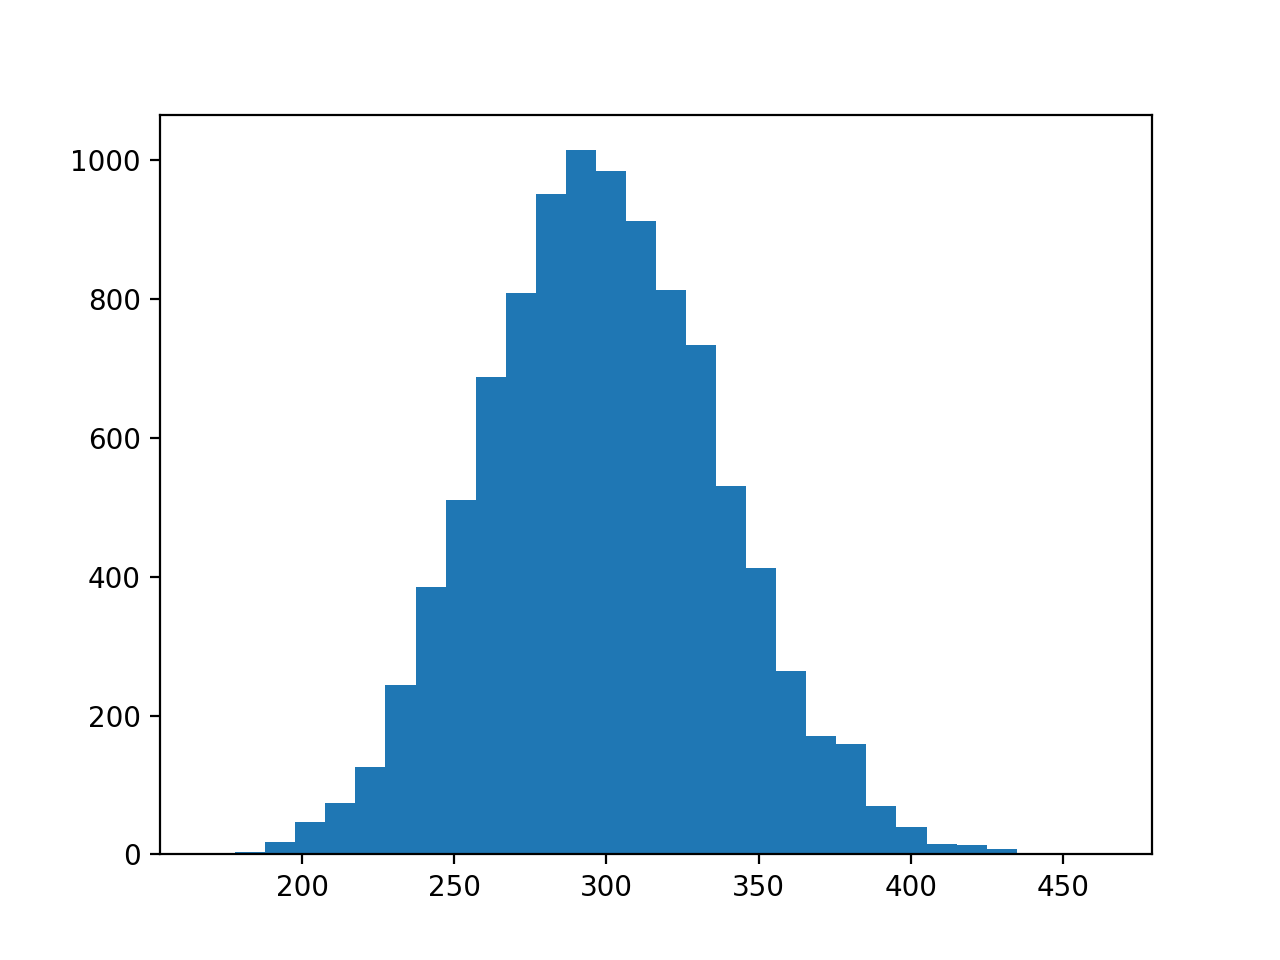
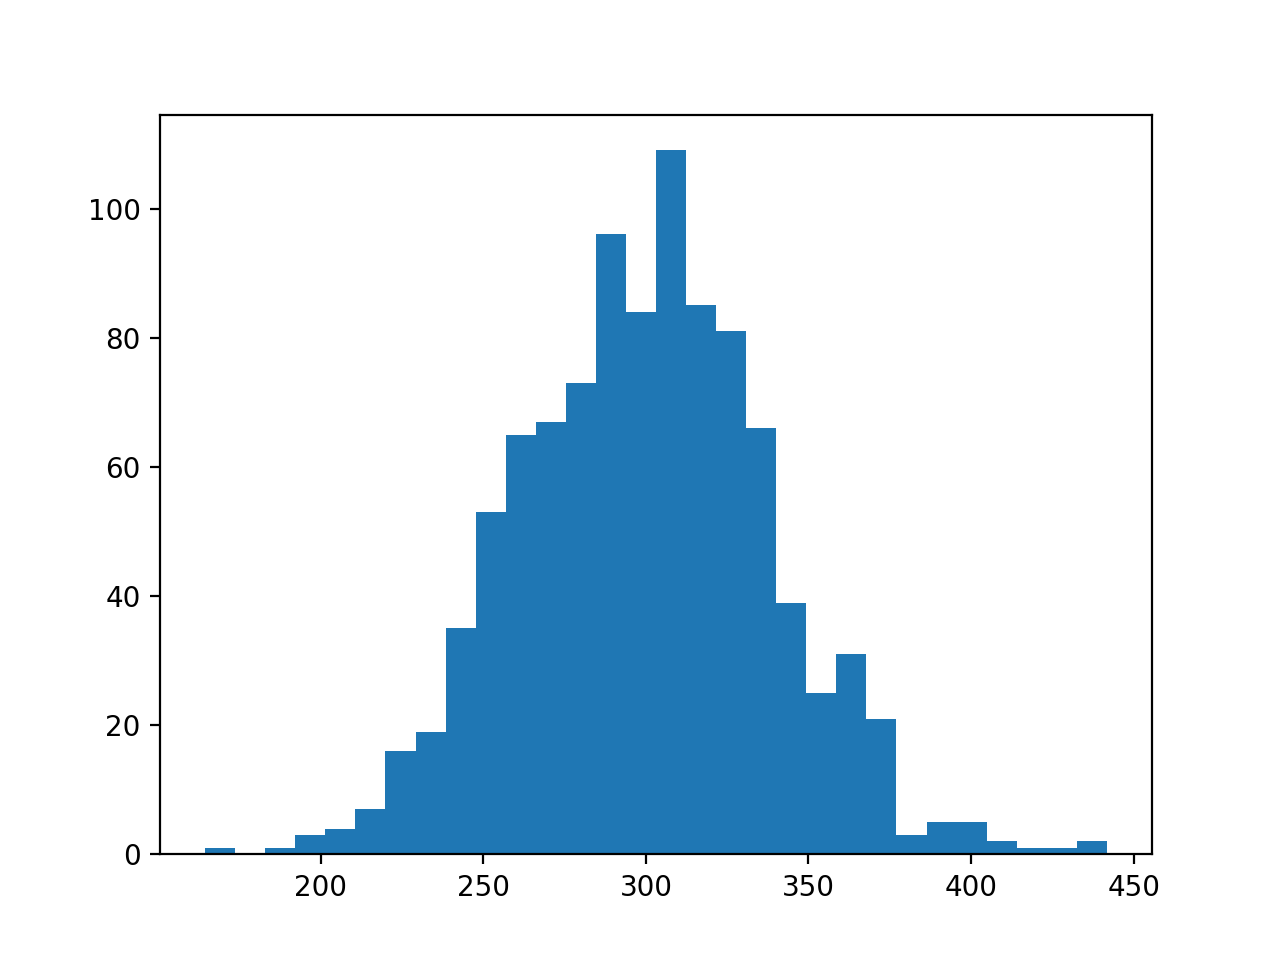
rebuild

diff --git a/searchindex.js b/searchindex.js
@@ -1,1 +1,1 @@
-Search.setIndex({docnames:["index","quickstart","refs/modules","refs/resample","tutorial/advanced","tutorial/basic","tutorial/index"],envversion:51,filenames:["index.rst","quickstart.rst","refs\\modules.rst","refs\\resample.rst","tutorial\\advanced.rst","tutorial\\basic.rst","tutorial\\index.rst"],objects:{"resample.boot":{boot:[3,1,1,""]},"resample.result":{Results:[3,2,1,""]},"resample.result.Results":{bias:[3,3,1,""],ci:[3,3,1,""],plot:[3,3,1,""],point_estimate:[3,3,1,""],se:[3,3,1,""]},"resample.statistic":{Max:[3,2,1,""],Mean:[3,2,1,""],Median:[3,2,1,""],Min:[3,2,1,""],Quantile:[3,2,1,""],SD:[3,2,1,""],Statistic:[3,2,1,""],Var:[3,2,1,""]},resample:{boot:[3,0,0,"-"],result:[3,0,0,"-"],statistic:[3,0,0,"-"]}},objnames:{"0":["py","module","Python module"],"1":["py","function","Python function"],"2":["py","class","Python class"],"3":["py","method","Python method"]},objtypes:{"0":"py:module","1":"py:function","2":"py:class","3":"py:method"},terms:{"2x2":4,"boolean":3,"case":4,"class":3,"default":[3,5],"float":3,"function":[3,4,5],"import":[1,4,5],"int":3,"long":[],"return":[3,4,5],"static":[],"true":[3,5],"var":[3,5],For:4,One:5,The:[4,5],These:4,Using:4,With:5,about:5,abov:5,accuraci:[],actual:[4,5],adding:4,advanc:[0,6],advantag:5,after:[1,4],alg:[4,5],algebra:4,algorithm:[1,5],all:[4,5],allow:[4,5],almost:4,alongsid:1,also:[4,5],amount:[4,5],ana:5,anaconda:1,analyz:4,ani:[1,5],anoth:[4,5],anti:5,anywai:4,appli:[3,5],appropri:5,argument:[4,5],arrai:[3,5],atom:4,avail:5,avavil:5,averag:4,base:3,basic:[0,6],bca:[3,5],becaus:5,becom:5,befor:4,being:4,below:[4,5],better:5,between:[3,4],beween:4,beyond:[],bia:[3,5],bibbi:[],biddi:5,bin:3,bipass:[],book:5,boostrap:5,boot:[2,4,6],boot_group:4,boot_reg:4,bootstap:[],bootstrap:[0,1,3,4,5],bradlei:1,build:4,bypass:4,calcul:[3,4,5],can:[4,5],car_weight:[],caus:4,cenonn:1,center:[3,5],certain:4,chang:4,check:6,choic:5,clone:1,close:1,code:[4,5],coef_:4,coeffici:4,col:[3,4],column:[3,4],com:1,command:1,common:[4,5],commonli:[],compar:4,complet:[1,4],complic:4,con:[],confid:[3,4,5],conjunct:[],contain:[3,4,5],content:[0,6],corr:[],correct:[3,5],correl:4,counterpart:[],cov:4,covari:4,creat:[3,4],csv:[],data:[3,5,6],datafram:[3,4,5],dataset:[1,4,5],decid:5,def:4,defin:[3,5],denot:4,dep_var:[],depend:4,design:1,develop:1,devic:5,diff_mean:4,differ:[4,5],dimens:5,directli:5,directori:1,distribut:[1,3,4,5],doe:[],download:[1,5],draw:1,each:4,efron:[1,3,5],either:[3,4,5],encompass:5,enter:1,environ:1,error:[1,3,5],estim:[0,1,3,4,5],etc:4,everi:3,examin:5,exampl:[4,5],exist:[1,5],extrem:1,fals:3,featur:4,few:5,find:[],first:5,fit:4,five:5,follow:1,form:1,formula:1,found:[],framework:0,from:[1,3,4,5],func:3,fundament:5,get:[0,4,5],get_coef:4,git:0,github:1,give:4,group1:4,group2:4,group:3,group_col:[3,4],handl:4,has:[1,4],have:[4,5],head:[],header:[],here:5,hire:[4,5],his:[],histogram:[3,5],hold:[4,5],hormon:[4,5],how:4,hrs:5,http:1,implement:[1,5],imvolv:[],includ:4,indep_var:[],independ:4,indepth:[],index:3,inflammatori:5,inform:[4,5],inplac:4,input:[3,4],insert:[],instal:0,intend:[],interv:[3,4,5],introduct:5,involv:[],is_valid:3,kent:5,kind:[3,4,5],known:1,kwarg:3,level:3,like:4,line:1,linear_model:4,linearregress:4,link:[],list:[3,4],locat:3,look:[4,5],lot:5,mai:4,make:5,mani:[4,5],mardia:5,match:[],matric:4,matrix:[],max:[3,4],maximum:4,mean:[3,4,5],measur:3,mec:[4,5],mechan:5,median:[3,4,5],melt:4,method:1,min:3,minimum:4,model:4,modul:[0,2],more:4,most:[1,5],multi:[],multi_boostrap:[],multi_bootstrap:4,multipl:4,multivari:6,multivariateresult:3,name:4,need:[4,5],none:3,nonparametr:5,note:5,now:4,number:3,numer:[4,5],numpi:5,object:[3,6],observ:[3,4],often:5,one:[1,4,5],onli:[4,5],order:5,origin:[1,3],other:4,otherhand:4,otherwis:5,our:[],output:3,output_col:[3,4],own:[],packag:[1,5],panda:5,paramet:3,particular:4,pass:[4,5],pdf:[4,5],percentil:[3,5],perform:[0,1,4,5],piec:5,place:1,plot:[3,4,5],png:[4,5],point:[3,4,5],point_estim:[3,4,5],power:[],previou:4,primari:5,problem:4,proce:4,process:[],properi:[],properti:5,provid:[1,4],purpos:[],pyhon:[],python:[0,1,4],quantil:3,rais:4,rather:4,read_csv:[],reampl:[],reason:5,ref:[],refer:1,regress:4,remain:4,repeat:1,replic:3,repositori:1,requir:[3,4],resampl:[4,5],resmapl:[],result:[2,4,6],row:[3,4,5],rst:[],same:4,sampl:[1,3,5],scale:3,scale_percentil:5,scenario:5,score:[4,5],second:5,see:[],sens:5,seper:1,seri:[3,5],setup:1,should:4,shown:[],simpl:[1,5],simplest:4,simpli:1,simplifi:[],simul:[1,3,5],singl:4,situat:4,sklearn:4,smodul:[],solv:4,some:[],someon:4,sourc:[4,5],specif:4,specifi:[4,5],sta:[4,5],standard:[1,3,5],start:0,statist:[1,2,5,6],string:3,structur:4,student:5,subject:5,subtract:4,suffici:[],techniqu:1,test:[4,5],than:[4,5],thei:4,thi:[1,4,5],thing:[4,5],through:[],throughout:5,thu:4,time:4,todo:[],took:5,trivial:5,tupl:3,tutori:0,two:[4,5],type:[3,4],typic:[],uncertainti:1,univari:[4,5],univariateresult:3,unix:1,use:[1,3,4,5],used:[1,5],useful:1,user:[3,4,5],uses:4,using:[1,5,6],usual:5,util:[],valid:[3,6],valu:[4,5],value_var:4,var_nam:4,variabl:3,varianc:[3,5],variou:5,vec:[4,5],version:5,wai:1,want:[4,5],warn:4,well:1,what:[0,5],when:[1,4],where:5,whether:[3,4],which:4,who:5,would:[4,5]},titles:["Welcome to resample&#8217;s documentation!","Getting Started - What is resample","resample","resample modules","Advanced Tutorial","Basic Tutorial","Tutorials"],titleterms:{advanc:4,basic:5,boot:[3,5],bootstrap:[],check:4,data:4,defin:[],document:0,estim:[],get:1,git:1,group:4,instal:1,matrix:4,modul:3,multivari:4,object:[4,5],output:4,reampl:[],resampl:[0,1,2,3],result:[3,5],start:1,statist:[3,4],think:[],titl:[],tutori:[4,5,6],univariateresult:[],user:[],using:4,valid:4,variabl:4,welcom:0,what:1}})
+Search.setIndex({docnames:["index","quickstart","refs/modules","refs/resample","tutorial/advanced","tutorial/basic","tutorial/index"],envversion:51,filenames:["index.rst","quickstart.rst","refs\\modules.rst","refs\\resample.rst","tutorial\\advanced.rst","tutorial\\basic.rst","tutorial\\index.rst"],objects:{"resample.boot":{boot:[3,1,1,""]},"resample.result":{Results:[3,2,1,""]},"resample.result.Results":{bias:[3,3,1,""],ci:[3,3,1,""],plot:[3,3,1,""],point_estimate:[3,3,1,""],se:[3,3,1,""]},"resample.statistic":{Max:[3,2,1,""],Mean:[3,2,1,""],Median:[3,2,1,""],Min:[3,2,1,""],Quantile:[3,2,1,""],SD:[3,2,1,""],Statistic:[3,2,1,""],Var:[3,2,1,""]},resample:{boot:[3,0,0,"-"],result:[3,0,0,"-"],statistic:[3,0,0,"-"]}},objnames:{"0":["py","module","Python module"],"1":["py","function","Python function"],"2":["py","class","Python class"],"3":["py","method","Python method"]},objtypes:{"0":"py:module","1":"py:function","2":"py:class","3":"py:method"},terms:{"2x2":4,"boolean":3,"case":4,"class":3,"default":[3,5],"float":3,"function":[3,4,5],"import":[1,4,5],"int":3,"long":[],"return":[3,4,5],"static":[],"true":[3,5],"var":[3,5],For:4,One:5,The:[4,5],These:4,Using:4,With:5,about:5,abov:5,acceler:3,accuraci:[],actual:[4,5],adding:4,advanc:[0,6],advantag:5,after:[1,4],alg:[4,5],algebra:4,algorithm:[1,5],all:[4,5],allow:[4,5],almost:4,alongsid:1,alpha:[],alpha_1:[],alpha_2:[],also:[4,5],amount:[4,5],ana:5,anaconda:1,analyz:4,ani:[1,5],anoth:[4,5],anti:5,anywai:4,appli:[3,5],appropri:5,argument:[4,5],arrai:[3,5],atom:4,avail:5,avavil:5,averag:4,base:3,basic:[0,6],bca:[3,5],becaus:5,becom:5,befor:4,being:4,below:[4,5],better:5,between:[3,4],beween:4,beyond:[],bia:[3,5],bibbi:[],biddi:5,bin:3,bipass:[],book:5,boostrap:5,boot:[2,4,6],boot_group:4,boot_reg:4,bootstap:[],bootstrap:[0,1,3,4,5],bradlei:1,build:4,bypass:4,calcul:[3,4,5],can:[4,5],car_weight:[],caus:4,cenonn:1,center:[3,5],certain:4,chang:4,check:6,choic:5,clone:1,close:1,code:[4,5],coef_:4,coeffici:4,col:[3,4],column:[3,4],com:1,command:1,common:[4,5],commonli:[],compar:4,complet:[1,4],complic:4,con:[],confid:[3,4,5],conjunct:[],contain:[3,4,5],content:[0,6],corr:[],correct:[3,5],correl:4,counterpart:[],cov:4,covari:4,creat:[3,4],csv:[],data:[3,5,6],datafram:[3,4,5],dataset:[1,4,5],decid:5,def:4,defin:[3,5],denot:4,dep_var:[],depend:4,design:1,develop:1,devic:5,diff_mean:4,differ:[4,5],dimens:5,directli:5,directori:1,distribut:[1,3,4,5],doe:[],download:[1,5],draw:1,each:4,efron:[1,3,5],either:[3,4,5],encompass:5,enter:1,environ:1,error:[1,3,5],estim:[0,1,3,4,5],etc:4,everi:3,examin:5,exampl:[4,5],exist:[1,5],extrem:1,fals:3,featur:4,few:5,figsiz:3,figur:3,find:[],first:5,fit:4,five:5,follow:1,form:1,formula:1,found:[],framework:0,from:[1,3,4,5],func:3,fundament:5,get:[0,4,5],get_coef:4,git:0,github:1,give:4,group1:4,group2:4,group:3,group_col:[3,4],handl:4,has:[1,4],hat:[],have:[4,5],head:[],header:[],here:5,heta_95:[],heta_:[],hire:[4,5],his:[],histogram:[3,5],hold:[4,5],hormon:[4,5],how:4,hrs:5,http:1,implement:[1,5],imvolv:[],inch:3,includ:4,indep_var:[],independ:4,indepth:[],index:3,inflammatori:5,inform:[4,5],inplac:4,input:[3,4],insert:[],instal:0,intend:[],interv:[3,4,5],introduct:5,involv:[],is_valid:3,kent:5,kind:[3,4,5],known:1,kwarg:3,level:3,like:4,line:1,linear_model:4,linearregress:4,link:[],list:[3,4],loc_percentil:3,locat:3,look:[4,5],lot:5,lpha:[],mai:4,make:5,mani:[4,5],mardia:5,match:[],math:[],matric:4,matrix:[],max:[3,4],maximum:4,mean:[3,4,5],measur:3,mec:[4,5],mechan:5,median:[3,4,5],melt:4,method:1,min:3,minimum:4,model:4,modul:[0,2],more:4,most:[1,5],multi:[],multi_boostrap:[],multi_bootstrap:4,multipl:4,multivari:6,multivariateresult:3,name:4,need:[4,5],none:3,nonparametr:5,note:5,now:4,number:3,numer:[4,5],numpi:5,object:[3,6],observ:[3,4],often:5,one:[1,4,5],onli:[4,5],order:5,origin:[1,3],other:4,otherhand:4,otherwis:5,our:[],output:3,output_col:[3,4],own:[],packag:[1,5],panda:5,param:[],paramet:3,particular:4,pass:[4,5],pdf:[4,5],percentil:[3,5],perform:[0,1,4,5],piec:5,place:1,plot:[3,4,5],png:[4,5],point:[3,4,5],point_estim:[3,4,5],power:[],previou:4,primari:5,problem:4,proce:4,process:[],properi:[],properti:5,provid:[1,4],purpos:[],pyhon:[],python:[0,1,4],quantil:3,rais:4,rather:4,read_csv:[],reampl:[],reason:5,ref:[],refer:1,regress:4,remain:4,repeat:1,replic:3,repositori:1,requir:[3,4],resampl:[4,5],resmapl:[],result:[2,4,6],row:[3,4,5],rst:[],rtype:[],same:4,sampl:[1,3,5],scale:3,scale_percentil:[3,5],scenario:5,score:[4,5],second:5,see:[],sens:5,seper:1,seri:[3,5],setup:1,should:4,shown:[],simpl:[1,5],simplest:4,simpli:1,simplifi:[],simul:[1,3,5],singl:4,situat:4,size:3,sklearn:4,smodul:[],solv:4,some:[],someon:4,sourc:[4,5],specif:4,specifi:[4,5],sta:[4,5],standard:[1,3,5],start:0,statist:[1,2,5,6],string:3,structur:4,student:5,subject:5,subtract:4,suffici:[],techniqu:1,test:[4,5],than:[4,5],thei:4,theta:[],thi:[1,4,5],thing:[4,5],through:[],throughout:5,thu:4,time:4,todo:[],took:5,trivial:5,tupl:3,tutori:0,two:[4,5],type:[3,4],typic:[],uncertainti:1,univari:[4,5],univariateresult:3,unix:1,use:[1,3,4,5],used:[1,5],useful:1,user:[3,4,5],uses:4,using:[1,5,6],usual:5,util:[],valid:[3,6],valu:[4,5],value_var:4,var_nam:4,variabl:3,varianc:[3,5],variou:5,vec:[4,5],version:5,wai:1,want:[4,5],warn:4,well:1,what:[0,5],when:[1,4],where:[3,5],whether:[3,4],which:4,who:5,would:[4,5]},titles:["Welcome to resample&#8217;s documentation!","Getting Started - What is resample","resample","resample modules","Advanced Tutorial","Basic Tutorial","Tutorials"],titleterms:{advanc:4,basic:5,boot:[3,5],bootstrap:[],check:4,data:4,defin:[],document:0,estim:[],get:1,git:1,group:4,instal:1,matrix:4,modul:3,multivari:4,object:[4,5],output:4,reampl:[],resampl:[0,1,2,3],result:[3,5],start:1,statist:[3,4],think:[],titl:[],tutori:[4,5,6],univariateresult:[],user:[],using:4,valid:4,variabl:4,welcom:0,what:1}})

diff --git a/refs/resample.html b/refs/resample.html
@@ -57,7 +57,7 @@
 <span id="resample-boot"></span><h2>resample.boot<a class="headerlink" href="#module-resample.boot" title="Permalink to this headline">¶</a></h2>
 <dl class="function">
 <dt id="resample.boot.boot">
-<code class="descclassname">resample.boot.</code><code class="descname">boot</code><span class="sig-paren">(</span><em>data</em>, <em>statistic</em>, <em>group_cols=None</em>, <em>output_cols=None</em>, <em>r=10000</em>, <em>**kwargs</em><span class="sig-paren">)</span><a class="headerlink" href="#resample.boot.boot" title="Permalink to this definition">¶</a></dt>
+<code class="descclassname">resample.boot.</code><code class="descname">boot</code><span class="sig-paren">(</span><em>data</em>, <em>statistic</em>, <em>group_cols=None</em>, <em>output_cols=None</em>, <em>r=1000</em>, <em>**kwargs</em><span class="sig-paren">)</span><a class="headerlink" href="#resample.boot.boot" title="Permalink to this definition">¶</a></dt>
 <dd><p>Creates UnivariateResult or MultivariateResult objects.</p>
 <table class="docutils field-list" frame="void" rules="none">
 <col class="field-name" />
@@ -126,6 +126,17 @@
 <dt id="resample.result.Results.ci">
 <code class="descname">ci</code><span class="sig-paren">(</span><em>col=None</em>, <em>row=None</em>, <em>confidence=0.95</em>, <em>kind='efron'</em><span class="sig-paren">)</span><a class="headerlink" href="#resample.result.Results.ci" title="Permalink to this definition">¶</a></dt>
 <dd><p>Calculate an interval estimate of the statistic</p>
+<p>Efron &#8216;efron&#8217;: 
+<img src="../_images/mathmpl/math-8c9aaeeb8b.png" style="position: relative; bottom: -8px"/></p>
+<p>Location percentile &#8216;loc_percentile&#8217;:
+<img src="../_images/mathmpl/math-cf32d960db.png" style="position: relative; bottom: -8px"/></p>
+<p>Scale percentile &#8216;scale_percentile&#8217;:
+<img src="../_images/mathmpl/math-5a16590a65.png" style="position: relative; bottom: -10px"/></p>
+<p>Bias corrected and accelerated &#8216;BCa&#8217;:
+<img src="../_images/mathmpl/math-a8104a7755.png" style="position: relative; bottom: -8px"/>
+where</p>
+<p><img src="../_images/mathmpl/math-f217a48db8.png" style="position: relative; bottom: -17px"/></p>
+<p><img src="../_images/mathmpl/math-7b831bb230.png" style="position: relative; bottom: -17px"/></p>
 <table class="docutils field-list" frame="void" rules="none">
 <col class="field-name" />
 <col class="field-body" />
@@ -150,8 +161,8 @@
 
 <dl class="method">
 <dt id="resample.result.Results.plot">
-<code class="descname">plot</code><span class="sig-paren">(</span><em>col=None</em>, <em>row=None</em>, <em>bins=30</em>, <em>**kwargs</em><span class="sig-paren">)</span><a class="headerlink" href="#resample.result.Results.plot" title="Permalink to this definition">¶</a></dt>
-<dd><p>Create a histogram of the bootstrap distribution</p>
+<code class="descname">plot</code><span class="sig-paren">(</span><em>col=None</em>, <em>row=None</em>, <em>bins=30</em>, <em>figsize=(6</em>, <em>4)</em>, <em>**kwargs</em><span class="sig-paren">)</span><a class="headerlink" href="#resample.result.Results.plot" title="Permalink to this definition">¶</a></dt>
+<dd><p>Create histograms of the bootstrap distribution</p>
 <table class="docutils field-list" frame="void" rules="none">
 <col class="field-name" />
 <col class="field-body" />
@@ -160,6 +171,7 @@
 <li><strong>col</strong> (<em>int</em>) &#8211; y index of the variable to plot</li>
 <li><strong>row</strong> (<em>int</em>) &#8211; x index of the variable to plot (requires col)</li>
 <li><strong>bins</strong> (<em>int</em>) &#8211; number of bins for the histogram</li>
+<li><strong>figsize</strong> (<em>tuple</em>) &#8211; size of figure in inches</li>
 </ul>
 </td>
 </tr>

diff --git a/tutorial/basic.html b/tutorial/basic.html
@@ -164,7 +164,7 @@ estimate of the variance of mechanics test scores</p>
 <span class="n">bootstrap</span> <span class="o">=</span> <span class="n">rs</span><span class="o">.</span><span class="n">boot</span><span class="p">(</span><span class="n">score</span><span class="p">[</span><span class="s2">&quot;mec&quot;</span><span class="p">],</span> <span class="n">np</span><span class="o">.</span><span class="n">var</span><span class="p">)</span>
 </pre></div>
 </div>
-<p>The <code class="docutils literal"><span class="pre">boot</span></code> function will then perform 10,000 boostrap simulations by
+<p>The <code class="docutils literal"><span class="pre">boot</span></code> function will then perform 1,000 boostrap simulations by
 default.</p>
 <p>A few things to note:</p>
 <ol class="arabic simple">
